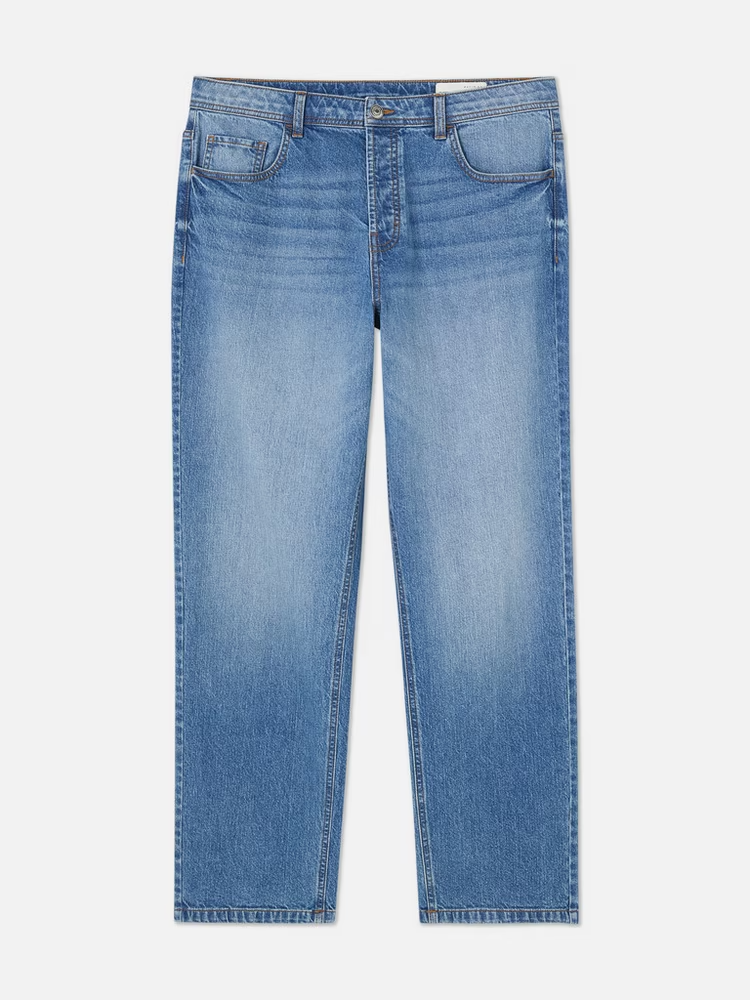
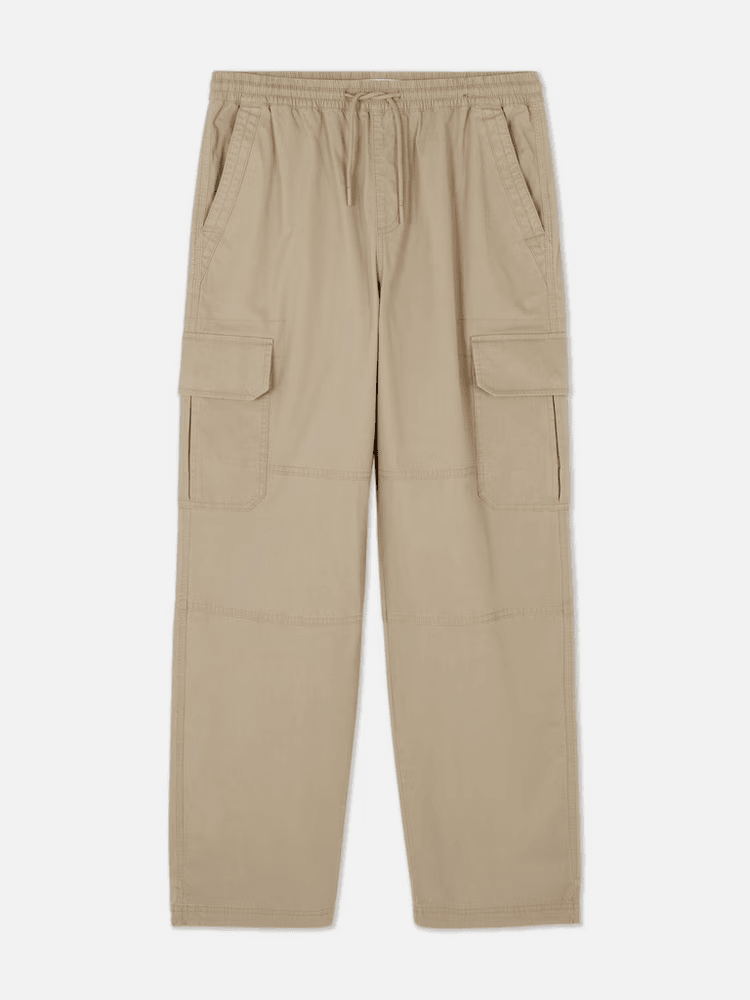
Fix: Copy Changes and Bundle fix

diff --git a/src/components/HeroSection.tsx b/src/components/HeroSection.tsx
@@ -104,8 +104,8 @@ const HeroSection: React.FC = () => {
     },
     {
       id: '3',
-      name: 'The stronghold Herringbone Canvas Jacket',
-      brand: 'The stronghold Herringbone Canvas Jacket',
+      name: 'The Stronghold Herringbone Canvas Jacket',
+      brand: 'The Stronghold Herringbone Canvas Jacket',
       originalPrice: '£20',
       price: '',
       image: tumi3,
@@ -162,7 +162,7 @@ const HeroSection: React.FC = () => {
                   <img
                     src={currentMedia.src}
                     alt={currentMedia.alt}
-                    className="w-full h-full object-cover"
+                    className="w-full h-full object-cover object-top"
                     // className="w-full h-full"
                   />
                 )}

diff --git a/src/components/DesignInnovation.tsx b/src/components/DesignInnovation.tsx
@@ -18,8 +18,8 @@ const DesignInnovation: React.FC = () => {
   const products: Product[] = [
     {
       id: '1',
-      name: 'High-Waisted Relaxed Fit Jeans',
-      price: '£14',
+      name: 'Utility Cargo Pants',
+      price: '£30',
       image: toteImage
     },
     {

diff --git a/src/components/Header.tsx b/src/components/Header.tsx
@@ -10,7 +10,7 @@ const Header: React.FC = () => {
     'MEN',
     'HOLIDAY',
     'KIDS',
-    'Furniture',
+    'FURNITURE',
     'HALLOWEEN',
     'HOME',
     'BEAUTY',
